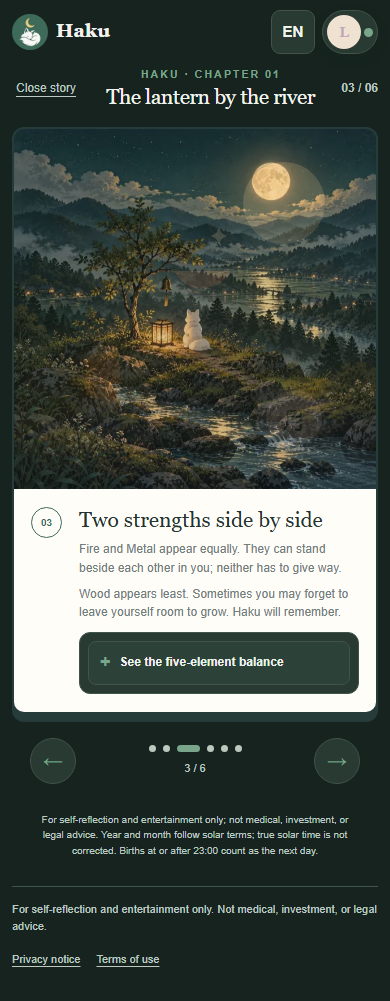
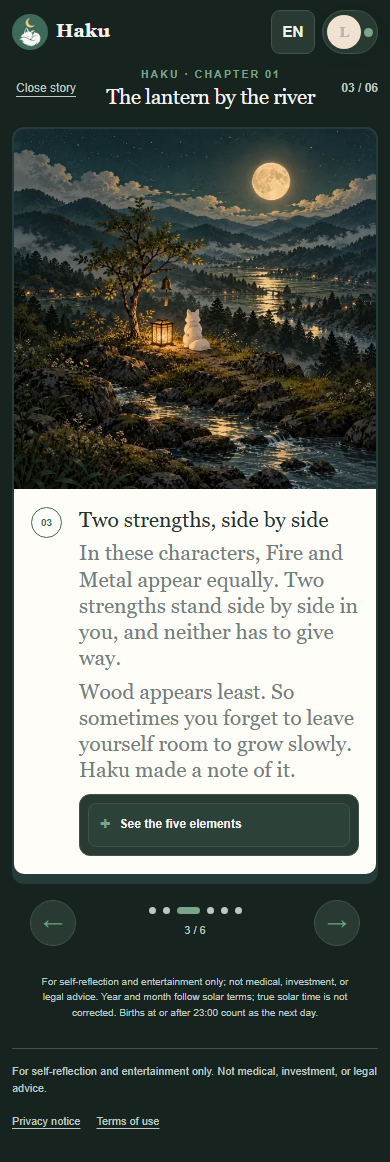
Restore story copy typography

diff --git a/haku.html b/haku.html
@@ -19,7 +19,7 @@
     @media(max-width:900px){.stats{grid-template-columns:repeat(2,minmax(0,1fr))}.admin-grid{grid-template-columns:1fr}.admin{grid-template-columns:180px minmax(0,1fr)}}
     @media(max-width:660px){.shell{padding:10px 12px 32px}.topbar{align-items:center;flex-wrap:nowrap;gap:9px;margin-bottom:10px}.brand{gap:8px}.brand-mark{width:36px;height:36px}.brand strong{font-size:19px}.brand small,.language-name{display:none}.tools{width:auto;min-width:0;justify-content:flex-end;gap:7px;flex-wrap:nowrap}.language-trigger{width:44px;min-height:44px;justify-content:center;padding:7px}.language-chevron{display:none}.view-switch.local-only{display:none}.hero-card{min-height:0;padding:18px 17px 20px}.hero-card:after{width:220px;height:220px;right:-100px;top:-110px}.hero-copy{max-width:100%}.hero-copy h1{width:100%;font-size:clamp(30px,9.2vw,37px);line-height:1.06;margin:7px 0 9px}.hero-copy>p:not(.eyebrow),.consent{width:100%}.hero-copy>p:not(.eyebrow){font-size:13px;line-height:1.45;margin-bottom:12px}.hero-copy>.eyebrow{font-size:9px;margin-bottom:0}.hero-start{width:100%;min-height:46px;margin-top:0}.consent{margin-top:10px;padding:9px 10px;gap:8px;font-size:10.5px;line-height:1.42}.consent input{margin-top:2px}.moon-art{position:relative;width:100%;height:auto;aspect-ratio:1.78/1;right:auto;bottom:auto;margin-top:14px;border-radius:160px 160px 12px 12px}.moon-art img{object-position:center}.side-card{padding:19px}.admin{grid-template-columns:1fr}.admin-nav{position:static;display:flex;overflow:auto;gap:3px;padding:6px}.admin-nav .nav-title{display:none}.admin-nav button{width:auto;white-space:nowrap;padding:9px 11px}.admin-head{flex-direction:column}.search{width:100%;max-width:none}.panel-head{align-items:flex-start;flex-direction:column}.table{min-width:650px}.footer{flex-direction:column}.footer-links{display:flex;gap:16px;flex-wrap:wrap}.user-entry-copy{display:none}.user-entry{padding:4px;gap:3px}.account-page{padding:23px}.dialog-actions{flex-direction:column-reverse}.dialog-actions .cta{width:100%}}
     @media(prefers-reduced-motion:reduce){*,*::before,*::after{scroll-behavior:auto!important;transition:none!important;animation:none!important}}
-    .text-button{border:0;background:none;text-decoration:underline;text-underline-offset:4px;color:var(--muted);padding:8px 4px}.reading-flow{max-width:760px;margin:14px auto 0}.flow-top,.reader-head,.flow-actions,.reader-controls,.end-actions{display:flex;align-items:center;justify-content:space-between;gap:14px}.flow-kicker{font-size:11px;letter-spacing:.13em;text-transform:uppercase;color:var(--muted)}.flow-progress{margin:24px 0 14px;display:flex;align-items:center;gap:15px;color:var(--green);font-weight:700;font-variant-numeric:tabular-nums}.flow-progress>div{white-space:nowrap}.flow-progress progress{appearance:none;height:4px;border:0;border-radius:8px;flex:1;background:#e0e7de}.flow-progress progress::-webkit-progress-bar{background:#e0e7de;border-radius:8px}.flow-progress progress::-webkit-progress-value{background:var(--green);border-radius:8px}.flow-progress progress::-moz-progress-bar{background:var(--green);border-radius:8px}.question-card{padding:clamp(24px,5vw,48px);background:var(--surface);border:1px solid var(--line);border-radius:18px;box-shadow:var(--shadow);min-height:350px}.question-card h2{font-size:clamp(27px,4vw,39px);max-width:600px;margin:8px 0}.question-card>.muted{font-size:13px}.answer-grid{display:grid;grid-template-columns:1fr 1fr;gap:10px;margin-top:26px}.answer-option{position:relative}.answer-option input{position:absolute;opacity:0;inset:0;width:100%;height:100%;cursor:pointer}.answer-option span{min-height:56px;display:flex;align-items:center;gap:10px;padding:12px 15px;background:#fbfcf8;border:1px solid var(--line);border-radius:10px;color:#4c5b55;transition:background .16s,border .16s,transform .16s}.answer-option span:before{content:'';width:16px;height:16px;border:1px solid #9bac9f;border-radius:50%;flex:none}.answer-option input:checked+span{background:var(--green-weak);border-color:var(--green);color:var(--ink)}.answer-option input:checked+span:before{border:5px solid var(--green)}.answer-option input:focus-visible+span{outline:3px solid var(--coral);outline-offset:2px}.answer-date,.answer-time{display:grid;gap:8px;margin-top:22px;color:var(--muted);font-size:12px;font-weight:700}.answer-date input,.answer-time input{border:1px solid var(--line);border-radius:9px;background:#fbfcf8;color:var(--ink);padding:13px 14px;min-height:50px}.unknown-time{display:flex;align-items:center;gap:9px;margin-top:10px;color:var(--muted);font-weight:500}.unknown-time input{width:18px;height:18px;accent-color:var(--green)}.flow-actions{margin:16px 0}.flow-privacy{font-size:11px;color:var(--muted);text-align:center}.inline-error{min-height:20px;color:#a14f42;font-size:13px;margin:10px 0 0}.reader-head{margin:12px 0 17px}.reader-head>div{text-align:center}.reader-head .eyebrow{margin-bottom:2px}.reader-head h2{font-size:clamp(22px,4vw,32px);margin:0}.page-number{font:600 12px var(--sans);color:var(--muted);font-variant-numeric:tabular-nums;white-space:nowrap}.comic-frame{position:relative;overflow:hidden;border:2px solid #263c3a;border-radius:12px;background:#263c3a;min-height:520px;aspect-ratio:1.18/1;box-shadow:0 8px 0 #263c3a;outline:none}.scene-art{position:absolute;z-index:0;inset:0 0 140px;overflow:hidden;background:linear-gradient(180deg,#263b49 0%,#506b73 54%,#9c9b86 100%);transition:background .4s}.story-illustration{position:absolute;z-index:1;inset:0;width:100%;height:100%;object-fit:cover;object-position:center 33%;opacity:0;transition:opacity .35s ease}.story-illustration.is-loaded{opacity:1}.scene-moon{position:absolute;top:9%;right:14%;width:clamp(82px,15vw,150px);aspect-ratio:1;border-radius:50%;background:#e5cb92;box-shadow:0 0 50px #e5cb9255}.scene-cloud{position:absolute;height:14px;width:28%;border-radius:50%;background:#d4ded833;filter:blur(5px)}.cloud-one{top:28%;left:8%}.cloud-two{top:40%;right:3%;width:20%}.scene-river{position:absolute;left:-10%;right:-10%;height:45%;bottom:-18%;border-radius:50% 50% 0 0;background:linear-gradient(180deg,#77969a99,#304f62 72%);transform:rotate(-5deg)}.scene-river:after{content:'';position:absolute;left:29%;right:20%;top:18%;height:2px;background:#e5cb9255;box-shadow:16px 22px 0 #e5cb9233,52px 40px 0 #e5cb9244,120px 15px 0 #e5cb9233}.scene-lantern{position:absolute;left:20%;bottom:25%;width:34px;height:48px;border-radius:15px 15px 9px 9px;background:#e3b56c;box-shadow:0 0 25px 12px #e3b56c55;animation:lantern 3s ease-in-out infinite}.scene-lantern:before{content:'';position:absolute;width:22px;height:6px;top:-4px;left:6px;border-radius:6px;background:#d8c092}.scene-person{position:absolute;bottom:0;left:38%;width:clamp(104px,19vw,184px);height:55%;border-radius:60% 60% 0 0;background:#526c63}.scene-person i{position:absolute;width:58%;aspect-ratio:1;left:20%;top:-32%;border-radius:48%;background:#c99375}.scene-person b{position:absolute;width:80%;height:25%;left:10%;top:-35%;border-radius:90% 90% 25% 25%;background:#263c3a}.scene-haku{position:absolute;bottom:12%;right:15%;width:56px;height:56px;display:grid;place-items:center;border-radius:50%;background:#e9e6d7;color:#416b5b;font:24px var(--serif);box-shadow:0 0 24px #e9e6d766}.scene-spark{position:absolute;color:#f0dcac;font-size:23px}.s1{left:54%;top:25%}.s2{right:10%;top:50%}.comic-caption{position:absolute;z-index:2;inset:auto 0 0;min-height:140px;padding:21px clamp(19px,4vw,38px) 18px;background:#fffdf8;display:grid;grid-template-columns:36px 1fr;column-gap:12px;align-content:center}.panel-mark{grid-row:1/3;align-self:start;width:31px;height:31px;border:1px solid var(--green);color:var(--green);display:grid;place-items:center;border-radius:50%;font-size:10px;font-weight:700}.comic-caption p{font:500 clamp(19px,3vw,28px)/1.25 var(--serif);margin:0;max-width:570px}.comic-subline .story-copy{font:400 12px/1.55 var(--sans);max-width:none;color:inherit}.story-details{margin-top:10px;padding:8px;border:1px solid var(--line);border-radius:11px;background:var(--surface)}.story-details summary{display:flex;align-items:center;min-height:44px;gap:9px;padding:8px 11px;border:1px solid var(--line);border-radius:8px;background:var(--green-weak);color:var(--ink);cursor:pointer;list-style:none;font:600 12px/1.4 var(--sans)}.story-details summary::-webkit-details-marker{display:none}.story-details summary::before{content:"+";color:var(--green);font-size:18px;font-weight:600}.story-details[open] summary::before{content:"−"}.story-details summary:focus-visible{outline:3px solid var(--coral);outline-offset:2px}.story-details[open] summary{margin-bottom:8px}.comic-subline .story-details .pillar-note{margin:6px 0 0;font:400 11px/1.5 var(--sans);color:var(--muted)}.story-keepsake{margin-top:9px;padding:10px 12px;border:1px solid var(--line);border-radius:10px;background:var(--green-weak);color:var(--ink);user-select:text;-webkit-user-select:text}.story-keepsake small{font:600 10px/1.4 var(--sans);color:var(--muted)}.comic-subline .story-keepsake .story-copy{margin:4px 0 0;font:500 14px/1.5 var(--serif);color:var(--ink)}.comic-subline{font-size:12px;color:var(--muted);margin-top:7px}.reader-controls{max-width:330px;margin:27px auto 34px}.round-control{width:46px;height:46px;border:1px solid var(--line);border-radius:50%;background:var(--surface);font-size:20px;color:var(--green)}.round-control:disabled{opacity:.35}.reader-meter{display:grid;gap:8px;justify-items:center}.reader-meter small{font-size:11px;color:var(--muted);font-variant-numeric:tabular-nums}.reader-dots{display:flex;gap:7px}.reader-dots button{width:7px;height:7px;padding:0;border:0;border-radius:50%;background:#bdc8bf}.reader-dots button[aria-current=true]{width:23px;border-radius:9px;background:var(--green)}.story-end,.feedback-screen{padding:clamp(24px,5vw,42px);background:var(--green-weak);border:1px solid #cad9cd;border-radius:16px;margin:0 0 24px}.story-end h2,.feedback-screen h2{font-size:clamp(25px,4vw,36px)}.story-end>p:not(.eyebrow){max-width:540px;color:#61746a}.end-actions{justify-content:flex-start;flex-wrap:wrap}.feedback-options{display:flex;flex-wrap:wrap;gap:9px;margin:22px 0}.feedback-choice{border:1px solid var(--line);background:var(--surface);border-radius:999px;padding:10px 15px}.feedback-choice[aria-pressed=true]{border-color:var(--green);background:var(--green);color:#fff}.reading-wait{min-height:60vh;display:grid;align-content:center;justify-items:center;text-align:center}.wait-moon{width:90px;height:90px;display:grid;place-items:center;border-radius:50%;background:#e5cb92;color:#526b62;font:32px var(--serif);box-shadow:0 0 0 15px #e5cb9220,0 0 0 30px #e5cb9210;animation:float 2.6s ease-in-out infinite}.reading-wait h2{margin:8px 0 25px}.wait-rule{height:2px;width:min(220px,55vw);background:#dce4db;overflow:hidden}.wait-rule i{height:100%;display:block;background:var(--green);animation:wait 1.2s ease-in-out infinite}.reading-wait .eyebrow{margin-top:35px}.reading-flow[data-scene="2"] .scene-art{background:linear-gradient(180deg,#3e394e,#756b83 54%,#b28b82)}.reading-flow[data-scene="2"] .scene-moon{background:#f0d2b4}.reading-flow[data-scene="3"] .scene-art{background:linear-gradient(180deg,#213a39,#527365 57%,#a39769)}.reading-flow[data-scene="4"] .scene-art{background:linear-gradient(180deg,#4c3d46,#9d716a 56%,#c79b77)}.reading-flow[data-scene="5"] .scene-art{background:linear-gradient(180deg,#293d55,#577f87 58%,#b5aa8a)}.reading-flow[data-scene="6"] .scene-art{background:linear-gradient(180deg,#283d40,#587c68 60%,#c2a96f)}
+    .text-button{border:0;background:none;text-decoration:underline;text-underline-offset:4px;color:var(--muted);padding:8px 4px}.reading-flow{max-width:760px;margin:14px auto 0}.flow-top,.reader-head,.flow-actions,.reader-controls,.end-actions{display:flex;align-items:center;justify-content:space-between;gap:14px}.flow-kicker{font-size:11px;letter-spacing:.13em;text-transform:uppercase;color:var(--muted)}.flow-progress{margin:24px 0 14px;display:flex;align-items:center;gap:15px;color:var(--green);font-weight:700;font-variant-numeric:tabular-nums}.flow-progress>div{white-space:nowrap}.flow-progress progress{appearance:none;height:4px;border:0;border-radius:8px;flex:1;background:#e0e7de}.flow-progress progress::-webkit-progress-bar{background:#e0e7de;border-radius:8px}.flow-progress progress::-webkit-progress-value{background:var(--green);border-radius:8px}.flow-progress progress::-moz-progress-bar{background:var(--green);border-radius:8px}.question-card{padding:clamp(24px,5vw,48px);background:var(--surface);border:1px solid var(--line);border-radius:18px;box-shadow:var(--shadow);min-height:350px}.question-card h2{font-size:clamp(27px,4vw,39px);max-width:600px;margin:8px 0}.question-card>.muted{font-size:13px}.answer-grid{display:grid;grid-template-columns:1fr 1fr;gap:10px;margin-top:26px}.answer-option{position:relative}.answer-option input{position:absolute;opacity:0;inset:0;width:100%;height:100%;cursor:pointer}.answer-option span{min-height:56px;display:flex;align-items:center;gap:10px;padding:12px 15px;background:#fbfcf8;border:1px solid var(--line);border-radius:10px;color:#4c5b55;transition:background .16s,border .16s,transform .16s}.answer-option span:before{content:'';width:16px;height:16px;border:1px solid #9bac9f;border-radius:50%;flex:none}.answer-option input:checked+span{background:var(--green-weak);border-color:var(--green);color:var(--ink)}.answer-option input:checked+span:before{border:5px solid var(--green)}.answer-option input:focus-visible+span{outline:3px solid var(--coral);outline-offset:2px}.answer-date,.answer-time{display:grid;gap:8px;margin-top:22px;color:var(--muted);font-size:12px;font-weight:700}.answer-date input,.answer-time input{border:1px solid var(--line);border-radius:9px;background:#fbfcf8;color:var(--ink);padding:13px 14px;min-height:50px}.unknown-time{display:flex;align-items:center;gap:9px;margin-top:10px;color:var(--muted);font-weight:500}.unknown-time input{width:18px;height:18px;accent-color:var(--green)}.flow-actions{margin:16px 0}.flow-privacy{font-size:11px;color:var(--muted);text-align:center}.inline-error{min-height:20px;color:#a14f42;font-size:13px;margin:10px 0 0}.reader-head{margin:12px 0 17px}.reader-head>div{text-align:center}.reader-head .eyebrow{margin-bottom:2px}.reader-head h2{font-size:clamp(22px,4vw,32px);margin:0}.page-number{font:600 12px var(--sans);color:var(--muted);font-variant-numeric:tabular-nums;white-space:nowrap}.comic-frame{position:relative;overflow:hidden;border:2px solid #263c3a;border-radius:12px;background:#263c3a;min-height:520px;aspect-ratio:1.18/1;box-shadow:0 8px 0 #263c3a;outline:none}.scene-art{position:absolute;z-index:0;inset:0 0 140px;overflow:hidden;background:linear-gradient(180deg,#263b49 0%,#506b73 54%,#9c9b86 100%);transition:background .4s}.story-illustration{position:absolute;z-index:1;inset:0;width:100%;height:100%;object-fit:cover;object-position:center 33%;opacity:0;transition:opacity .35s ease}.story-illustration.is-loaded{opacity:1}.scene-moon{position:absolute;top:9%;right:14%;width:clamp(82px,15vw,150px);aspect-ratio:1;border-radius:50%;background:#e5cb92;box-shadow:0 0 50px #e5cb9255}.scene-cloud{position:absolute;height:14px;width:28%;border-radius:50%;background:#d4ded833;filter:blur(5px)}.cloud-one{top:28%;left:8%}.cloud-two{top:40%;right:3%;width:20%}.scene-river{position:absolute;left:-10%;right:-10%;height:45%;bottom:-18%;border-radius:50% 50% 0 0;background:linear-gradient(180deg,#77969a99,#304f62 72%);transform:rotate(-5deg)}.scene-river:after{content:'';position:absolute;left:29%;right:20%;top:18%;height:2px;background:#e5cb9255;box-shadow:16px 22px 0 #e5cb9233,52px 40px 0 #e5cb9244,120px 15px 0 #e5cb9233}.scene-lantern{position:absolute;left:20%;bottom:25%;width:34px;height:48px;border-radius:15px 15px 9px 9px;background:#e3b56c;box-shadow:0 0 25px 12px #e3b56c55;animation:lantern 3s ease-in-out infinite}.scene-lantern:before{content:'';position:absolute;width:22px;height:6px;top:-4px;left:6px;border-radius:6px;background:#d8c092}.scene-person{position:absolute;bottom:0;left:38%;width:clamp(104px,19vw,184px);height:55%;border-radius:60% 60% 0 0;background:#526c63}.scene-person i{position:absolute;width:58%;aspect-ratio:1;left:20%;top:-32%;border-radius:48%;background:#c99375}.scene-person b{position:absolute;width:80%;height:25%;left:10%;top:-35%;border-radius:90% 90% 25% 25%;background:#263c3a}.scene-haku{position:absolute;bottom:12%;right:15%;width:56px;height:56px;display:grid;place-items:center;border-radius:50%;background:#e9e6d7;color:#416b5b;font:24px var(--serif);box-shadow:0 0 24px #e9e6d766}.scene-spark{position:absolute;color:#f0dcac;font-size:23px}.s1{left:54%;top:25%}.s2{right:10%;top:50%}.comic-caption{position:absolute;z-index:2;inset:auto 0 0;min-height:140px;padding:21px clamp(19px,4vw,38px) 18px;background:#fffdf8;display:grid;grid-template-columns:36px 1fr;column-gap:12px;align-content:center}.panel-mark{grid-row:1/3;align-self:start;width:31px;height:31px;border:1px solid var(--green);color:var(--green);display:grid;place-items:center;border-radius:50%;font-size:10px;font-weight:700}.comic-caption p{font:500 clamp(19px,3vw,28px)/1.25 var(--serif);margin:0;max-width:570px}.story-details{margin-top:10px;padding:8px;border:1px solid var(--line);border-radius:11px;background:var(--surface)}.story-details summary{display:flex;align-items:center;min-height:44px;gap:9px;padding:8px 11px;border:1px solid var(--line);border-radius:8px;background:var(--green-weak);color:var(--ink);cursor:pointer;list-style:none;font:600 12px/1.4 var(--sans)}.story-details summary::-webkit-details-marker{display:none}.story-details summary::before{content:"+";color:var(--green);font-size:18px;font-weight:600}.story-details[open] summary::before{content:"−"}.story-details summary:focus-visible{outline:3px solid var(--coral);outline-offset:2px}.story-details[open] summary{margin-bottom:8px}.comic-subline .story-details .pillar-note{margin:6px 0 0;font:400 11px/1.5 var(--sans);color:var(--muted)}.story-keepsake{margin-top:9px;padding:10px 12px;border:1px solid var(--line);border-radius:10px;background:var(--green-weak);color:var(--ink);user-select:text;-webkit-user-select:text}.story-keepsake small{font:600 11px/1.4 var(--sans);color:var(--muted)}.comic-subline .story-keepsake .story-copy{margin:4px 0 0;font:500 14px/1.5 var(--serif);color:var(--ink)}.comic-subline{font-size:12px;color:var(--muted);margin-top:7px}.reader-controls{max-width:330px;margin:27px auto 34px}.round-control{width:46px;height:46px;border:1px solid var(--line);border-radius:50%;background:var(--surface);font-size:20px;color:var(--green)}.round-control:disabled{opacity:.35}.reader-meter{display:grid;gap:8px;justify-items:center}.reader-meter small{font-size:11px;color:var(--muted);font-variant-numeric:tabular-nums}.reader-dots{display:flex;gap:7px}.reader-dots button{width:7px;height:7px;padding:0;border:0;border-radius:50%;background:#bdc8bf}.reader-dots button[aria-current=true]{width:23px;border-radius:9px;background:var(--green)}.story-end,.feedback-screen{padding:clamp(24px,5vw,42px);background:var(--green-weak);border:1px solid #cad9cd;border-radius:16px;margin:0 0 24px}.story-end h2,.feedback-screen h2{font-size:clamp(25px,4vw,36px)}.story-end>p:not(.eyebrow){max-width:540px;color:#61746a}.end-actions{justify-content:flex-start;flex-wrap:wrap}.feedback-options{display:flex;flex-wrap:wrap;gap:9px;margin:22px 0}.feedback-choice{border:1px solid var(--line);background:var(--surface);border-radius:999px;padding:10px 15px}.feedback-choice[aria-pressed=true]{border-color:var(--green);background:var(--green);color:#fff}.reading-wait{min-height:60vh;display:grid;align-content:center;justify-items:center;text-align:center}.wait-moon{width:90px;height:90px;display:grid;place-items:center;border-radius:50%;background:#e5cb92;color:#526b62;font:32px var(--serif);box-shadow:0 0 0 15px #e5cb9220,0 0 0 30px #e5cb9210;animation:float 2.6s ease-in-out infinite}.reading-wait h2{margin:8px 0 25px}.wait-rule{height:2px;width:min(220px,55vw);background:#dce4db;overflow:hidden}.wait-rule i{height:100%;display:block;background:var(--green);animation:wait 1.2s ease-in-out infinite}.reading-wait .eyebrow{margin-top:35px}.reading-flow[data-scene="2"] .scene-art{background:linear-gradient(180deg,#3e394e,#756b83 54%,#b28b82)}.reading-flow[data-scene="2"] .scene-moon{background:#f0d2b4}.reading-flow[data-scene="3"] .scene-art{background:linear-gradient(180deg,#213a39,#527365 57%,#a39769)}.reading-flow[data-scene="4"] .scene-art{background:linear-gradient(180deg,#4c3d46,#9d716a 56%,#c79b77)}.reading-flow[data-scene="5"] .scene-art{background:linear-gradient(180deg,#293d55,#577f87 58%,#b5aa8a)}.reading-flow[data-scene="6"] .scene-art{background:linear-gradient(180deg,#283d40,#587c68 60%,#c2a96f)}
     @keyframes lantern{50%{transform:translateY(-5px);box-shadow:0 0 34px 16px #e3b56c66}}@keyframes float{50%{transform:translateY(-7px)}}@keyframes wait{to{transform:translateX(220px)}}
     .flow-progress>div span:last-child{color:#98a49c;font-weight:500}
     @media(max-width:660px){.reading-flow{margin-top:0}.flow-top{margin-top:3px}.question-card{min-height:390px;padding:24px 19px}.answer-grid{grid-template-columns:1fr;gap:8px;margin-top:19px}.answer-option span{min-height:51px}.reader-head{gap:4px}.reader-head>.text-button{font-size:12px;max-width:90px}.reader-head h2{font-size:21px}.comic-frame{min-height:min(68vh,560px);aspect-ratio:auto}.scene-art{inset:0 0 150px}.comic-caption{min-height:150px;padding:18px 17px}.comic-caption p{font-size:21px}.reader-controls{margin:24px auto 28px}.story-end{padding:24px 18px}.flow-actions .cta{min-width:116px}.flow-privacy{max-width:300px;margin:12px auto}}
